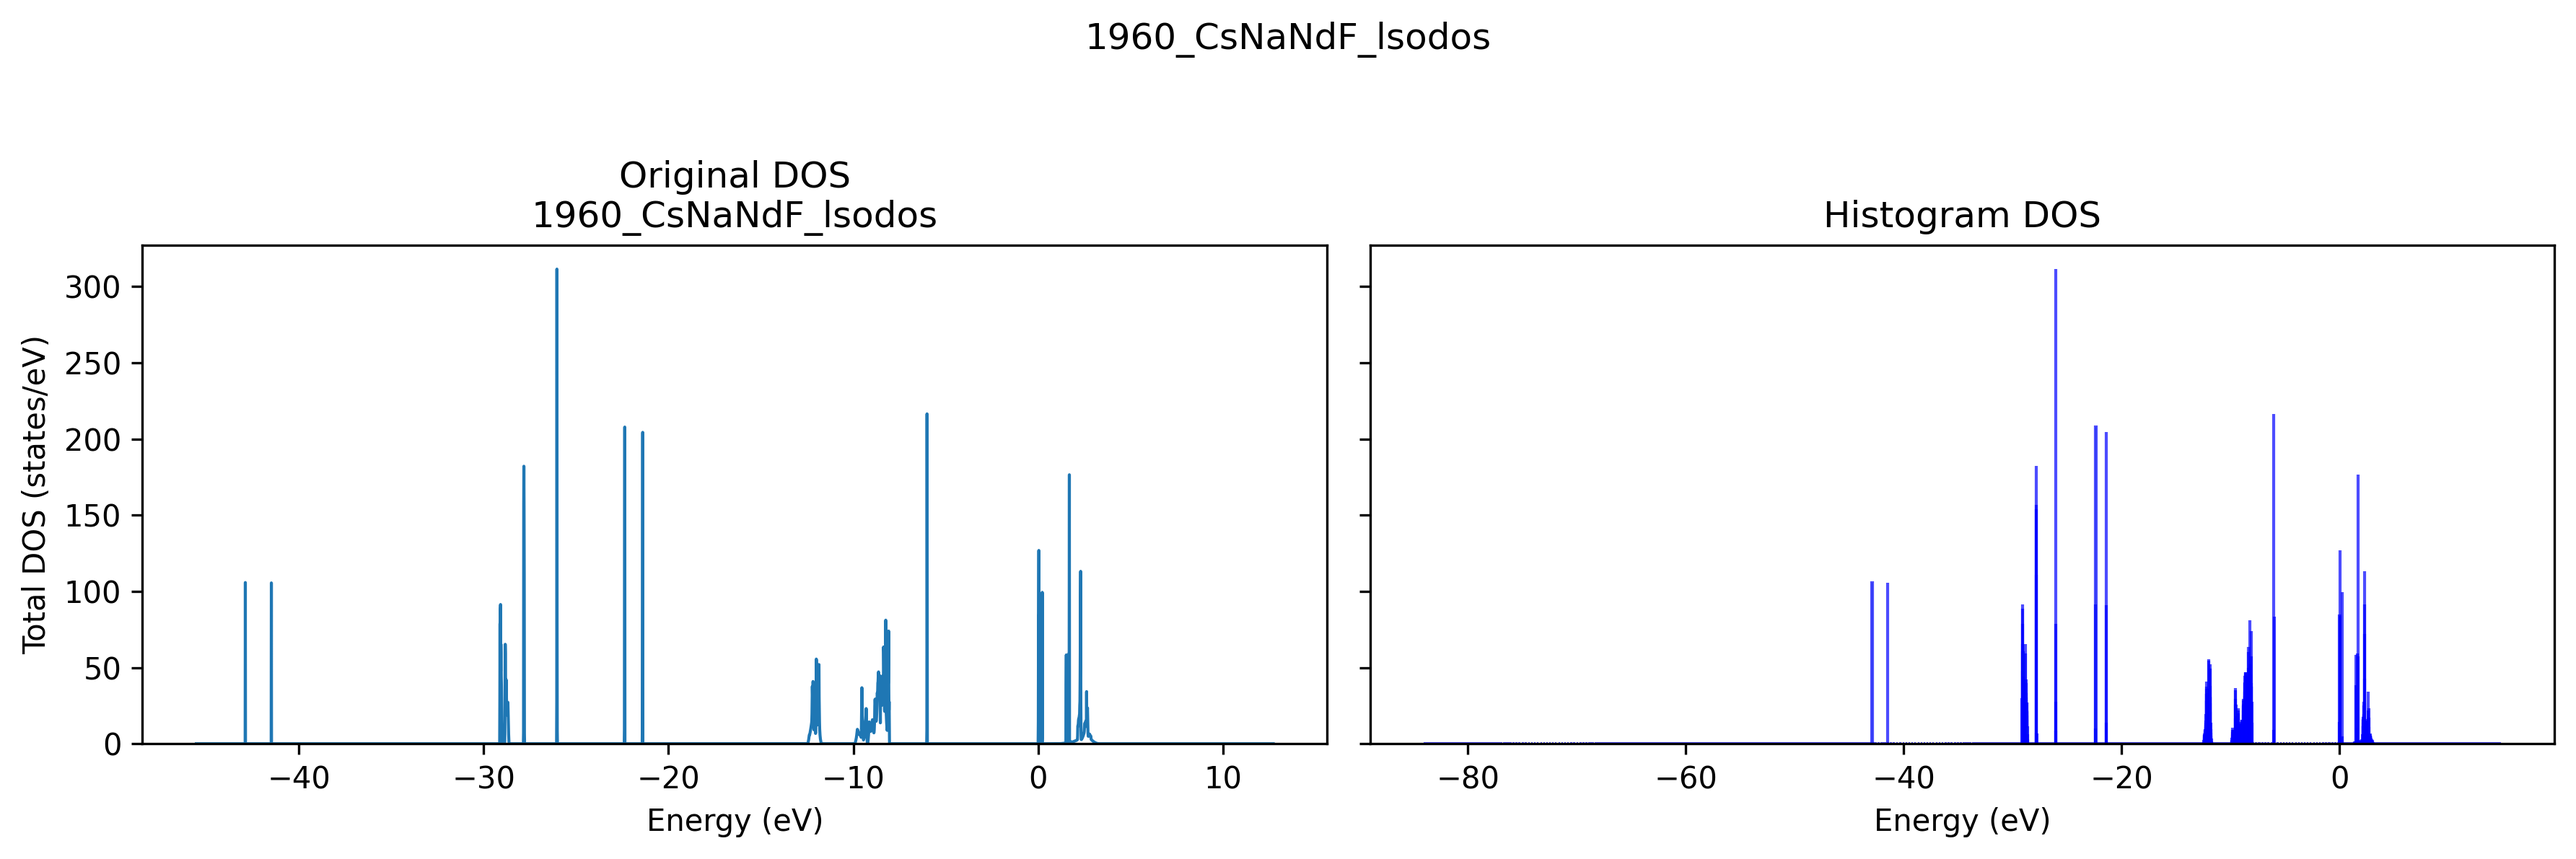
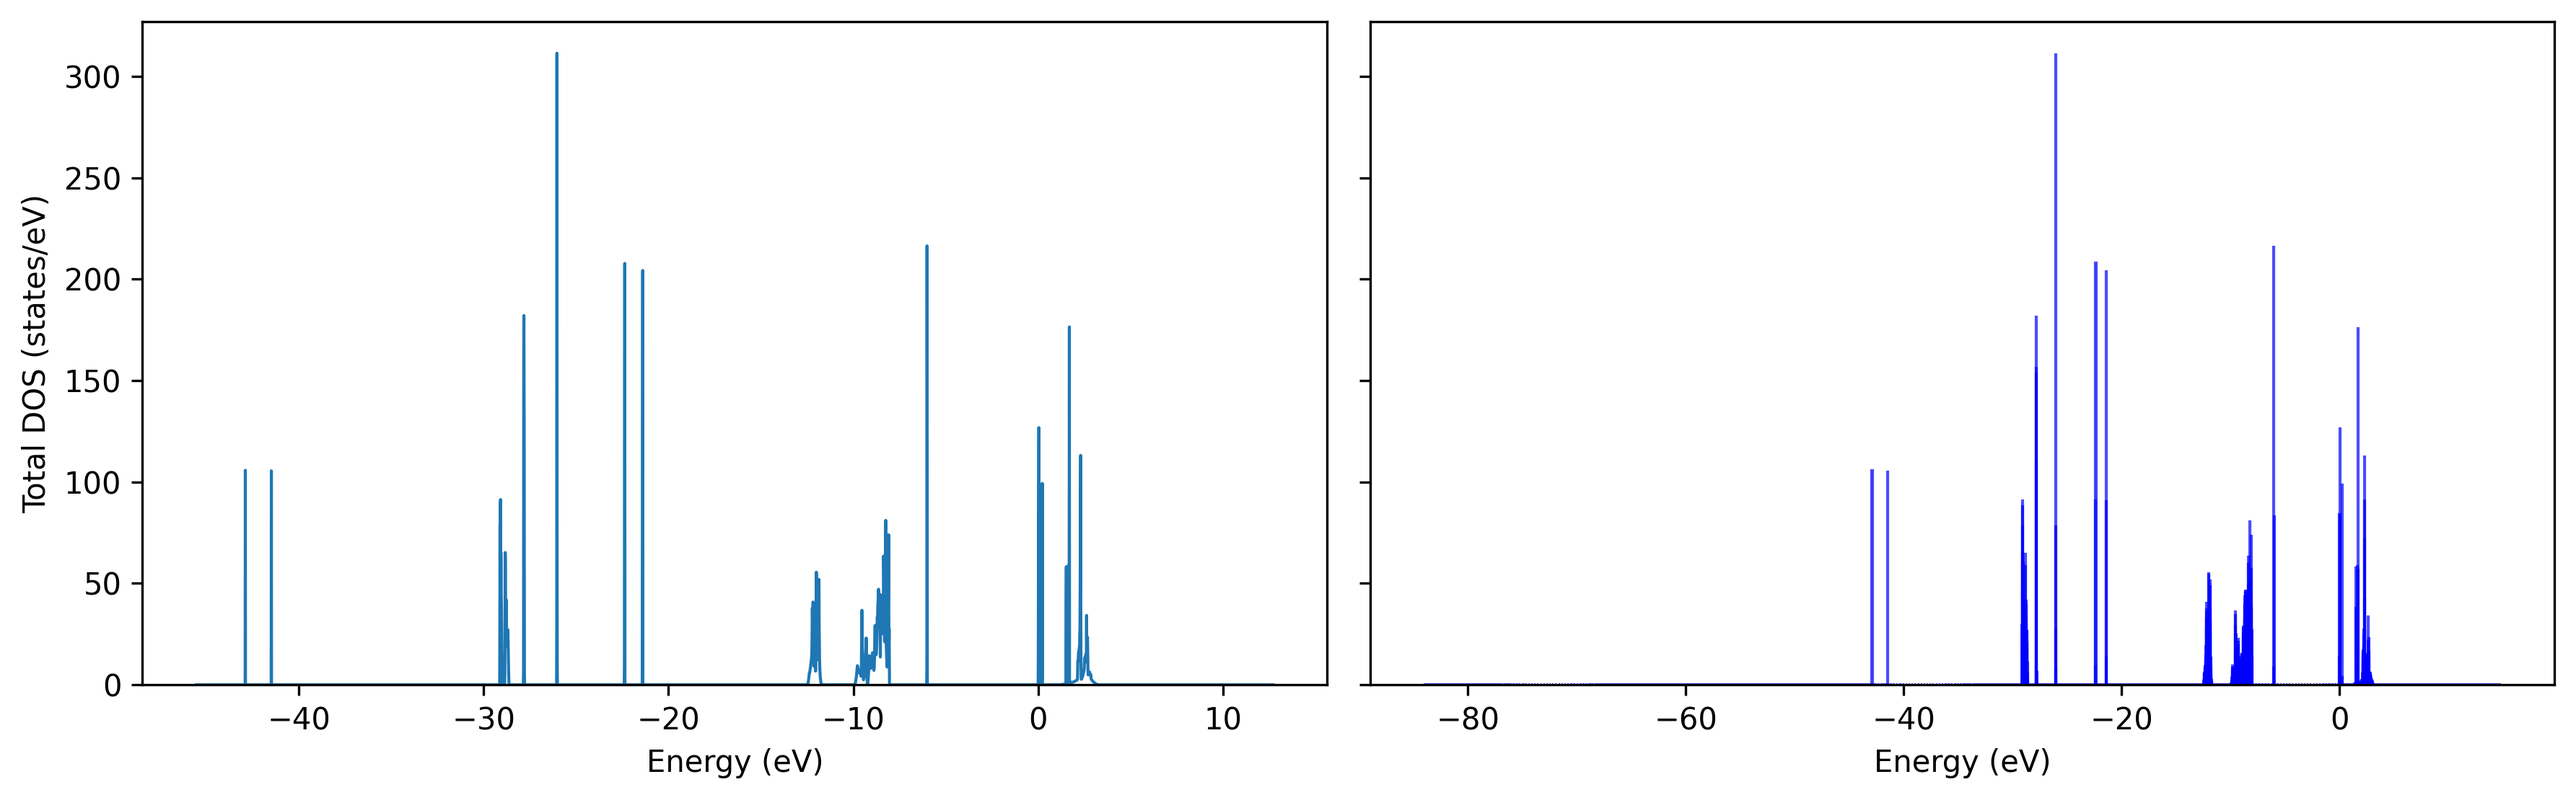
Made a bunch of plots

diff --git a/bokeh_implementations/lso_dos_data/og_and_hist.py b/bokeh_implementations/lso_dos_data/og_and_hist.py
@@ -41,18 +41,19 @@ for material_name in selected:
 
     fig, axes = plt.subplots(1, 2, figsize=(12, 4), sharey=True)
     axes[0].plot(energies_long, dos_long, label="TDOS", lw=1)
-    axes[0].set_title(f"Original DOS\n{material_name}")
     axes[0].set_xlabel("Energy (eV)")
     axes[0].set_ylabel("Total DOS (states/eV)")
+    axes[0].set_xlim(0, 6)
+    axes[0].set_ylim(0, 25)
+
 
     axes[1].bar(energies_hist, dos_hist, width=energies_hist[1]-energies_hist[0], align="center", alpha=0.7, edgecolor="blue")
-    axes[1].set_title("Histogram DOS")
     axes[1].set_xlabel("Energy (eV)")
-
-    fig.suptitle(material_name)
+    axes[1].set_xlim(0, 6)
+    axes[1].set_ylim(0, 25)
     fig.tight_layout(rect=[0,0,1,0.95])
 
-    out_file = os.path.join(output_dir, f"{material_name}_comparison.png")
+    out_file = os.path.join(output_dir, f"{material_name}_comparison_0_to_6_ev.png")
     plt.savefig(out_file, dpi=300, bbox_inches="tight")
     plt.close()
     print(f"Saved plot: {out_file}")

diff --git a/utilities/plot_spacings.py b/utilities/plot_spacings.py
@@ -16,19 +16,9 @@ counts, bins, patches = plt.hist(df["avg_spacing"], bins=80, edgecolor="black")
 for i in range(len(counts)):
     if counts[i] > 0:
         label = f"{bins[i]:.4f}–{bins[i+1]:.4f}"
-        plt.text(
-            (bins[i] + bins[i+1]) / 2,
-            counts[i],
-            label,
-            ha="center",
-            va="bottom",
-            rotation=90,
-            fontsize=7
-        )
 
 plt.xlabel("Average ΔE (eV)")
 plt.ylabel("Count")
-plt.title("Distribution of average energy spacings across materials")
 plt.grid(True, alpha=0.3)
 plt.tight_layout()
 
